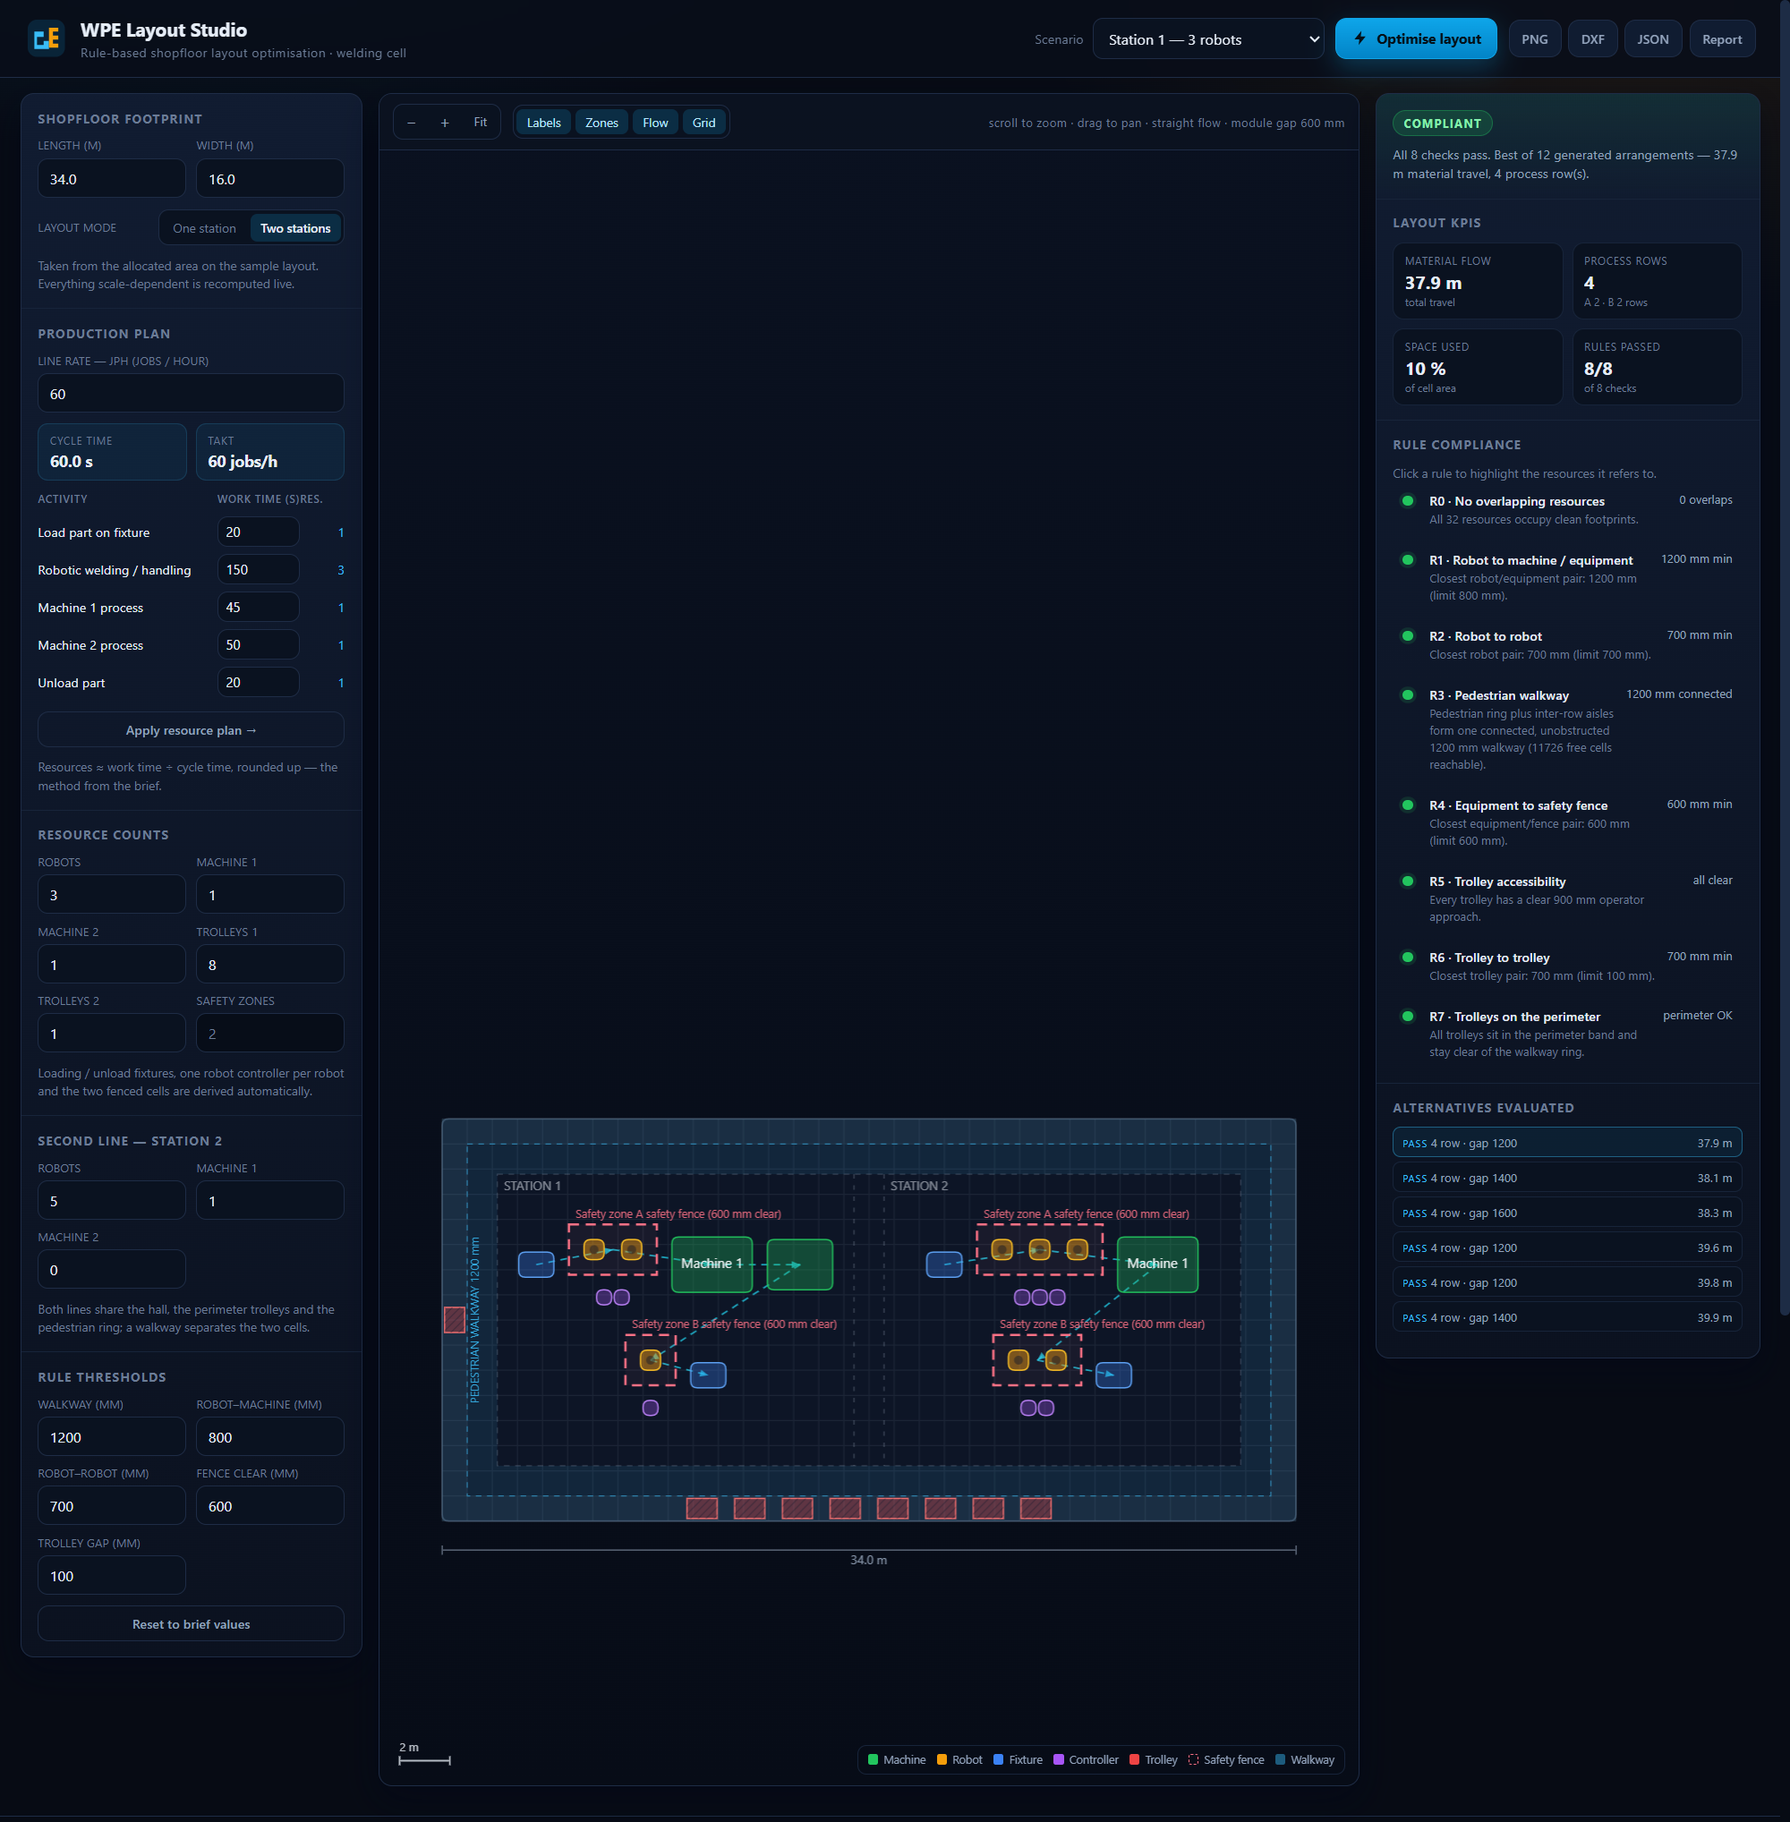
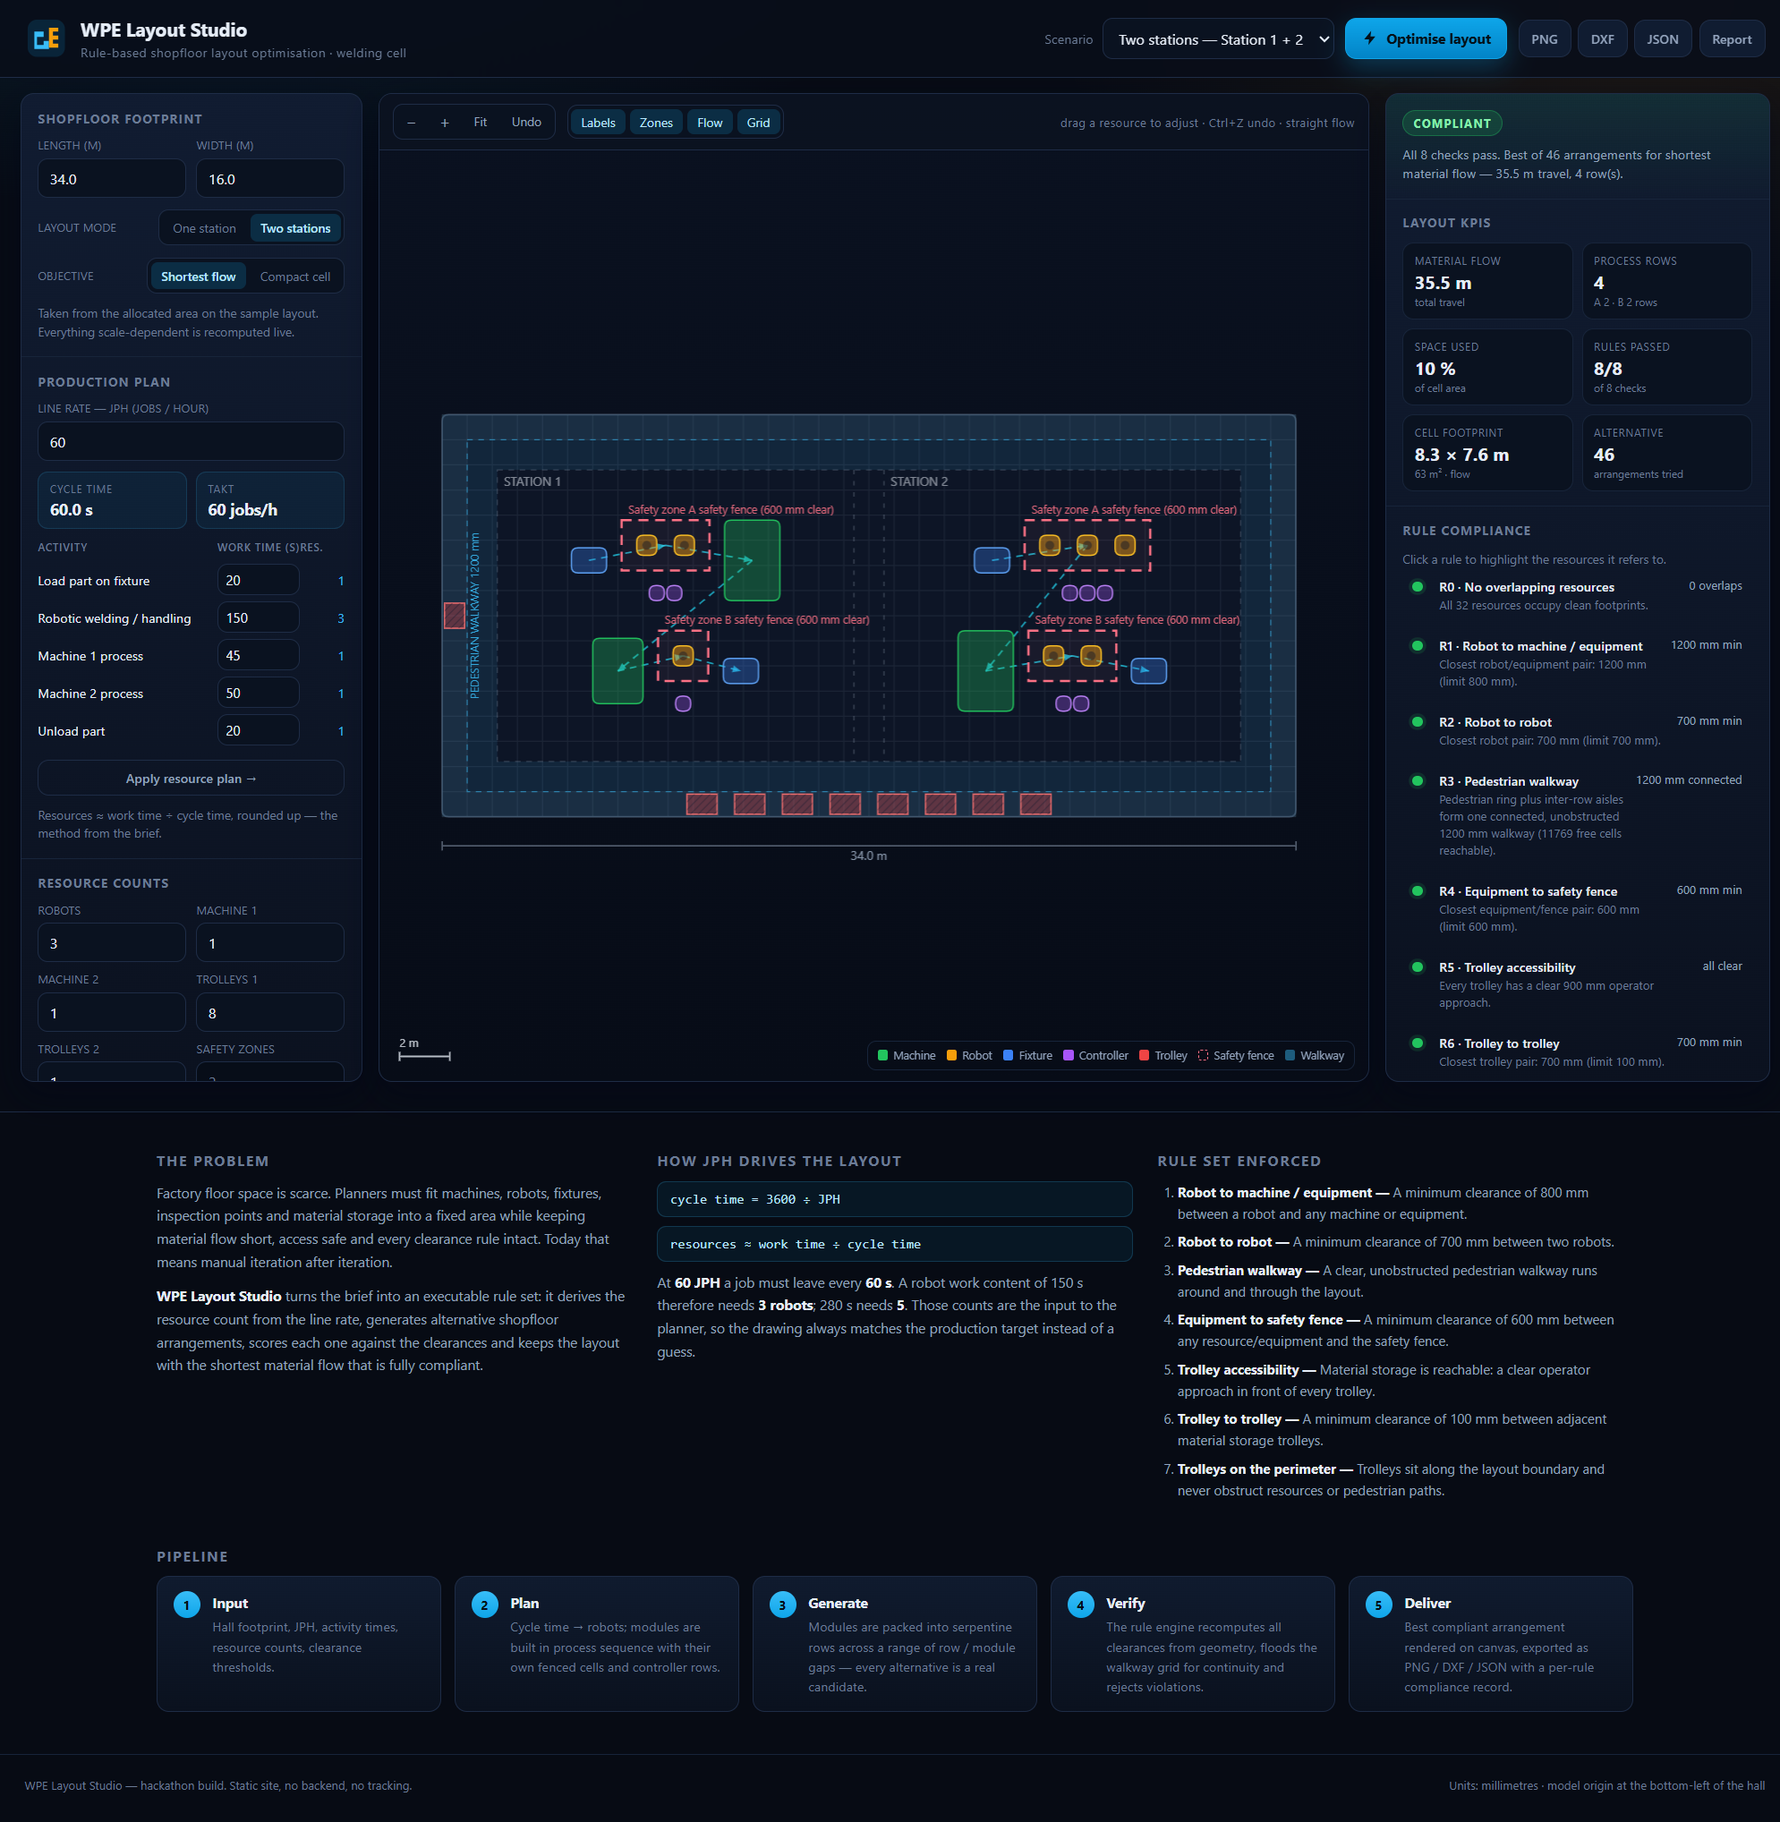
Broaden the layout search and add an explicit objective
- candidates now sweep row-width caps (100/78/60%), machine orientation,
  row gap, module gap and flow direction: 30-50 complete layouts per run
- selectable objective: shortest material flow or smallest footprint,
  which diverge on a tight floor (21.2 m / 94 m2 vs 22.7 m / 74 m2)
- KPI strip gains cell footprint and candidate count; verdict states the goal
- fixed the objective segmented control losing its highlight after a change
- tests: search breadth, objective trade-off, compact pick stays compliant
- docs screenshots refreshed

diff --git a/assets/js/planner.js b/assets/js/planner.js
@@ -81,6 +81,21 @@
     };
   }
 
+  /** turn a machine module 90° so its long side can run across the flow */
+  function rotateUnit(u) {
+    if (u.kind !== 'machine') return u;
+    return {
+      id: u.id, label: u.label, kind: u.kind,
+      w: u.h, h: u.w,
+      flowPoint: { x: u.h / 2, y: u.w / 2 },
+      items: u.items.map((it) => ({
+        id: it.id, kind: it.kind, type: it.type, label: it.label,
+        rect: { x: 0, y: 0, w: it.rect.h, h: it.rect.w }
+      })),
+      fences: []
+    };
+  }
+
   function buildUnits(counts, rules, prefix) {
     const c = counts || {};
     const p = prefix || '';
@@ -108,12 +123,13 @@
   }
 
   /* ---------- row packing ---------- */
-  function pack(units, prod, unitGap, rowGap, snake) {
+  function pack(units, prod, unitGap, rowGap, snake, rowCap) {
+    const maxRowWidth = prod.w * (rowCap || 1);
     const rows = [];
     let cur = { units: [], width: 0, height: 0 };
     units.forEach((u) => {
       const add = cur.units.length ? unitGap + u.w : u.w;
-      if (cur.units.length && cur.width + add > prod.w + 0.5) {
+      if (cur.units.length && cur.width + add > maxRowWidth + 0.5) {
         rows.push(cur);
         cur = { units: [], width: 0, height: 0 };
       }
@@ -345,16 +361,23 @@
 
     const unitGapBase = Math.max(rules.machineGap, rules.fenceClearance);
     const candidates = [];
-    const rowExtras = [0, 200, 400];
+    const rowExtras = [0, 200];
     const unitExtras = [0, 200];
     const snakes = [true, false];
+    const rowCaps = [1, 0.78, 0.6];
+    const rotations = [false, true];
 
+    rowCaps.forEach((rowCap) => {
+    rotations.forEach((rotated) => {
     rowExtras.forEach((rx) => {
       unitExtras.forEach((ux) => {
         snakes.forEach((snake) => {
           const rowGap = aisle + rx;
           const unitGap = unitGapBase + ux;
-          const packs = groups.map((grp) => pack(grp.units, grp.rect, unitGap, rowGap, snake));
+          const packs = groups.map((grp) => {
+            const units = rotated ? grp.units.map(rotateUnit) : grp.units;
+            return pack(units, grp.rect, unitGap, rowGap, snake, rowCap);
+          });
           const packed = {
             items: packs.reduce((a, p) => a.concat(p.items), []),
             fences: packs.reduce((a, p) => a.concat(p.fences), []),
@@ -387,14 +410,17 @@
               rowsByStation: packed.rowsByStation,
               rowGap: rowGap,
               unitGap: unitGap,
-              snake: snake,
-              dual: dual,
-              fits: packed.fits,
-              neededW: packed.neededW,
-              neededH: packed.totalH,
-              prodW: prod.w,
-              prodH: prod.h
-            }
+               snake: snake,
+               dual: dual,
+               rowCap: rowCap,
+               rotated: rotated,
+               fits: packed.fits,
+               neededW: packed.neededW,
+               neededH: packed.totalH,
+               footprintArea: packed.neededW * packed.totalH,
+               prodW: prod.w,
+               prodH: prod.h
+             }
           };
           const check = WPE.Checker.evaluate(layout, rules, hall);
           const usedArea = layout.items
@@ -403,31 +429,43 @@
           layout.metrics.usedArea = usedArea;
           layout.metrics.utilisation = usedArea / (prod.w * prod.h);
           layout.metrics.footprint = (packed.neededW * packed.totalH) / (prod.w * prod.h);
-          candidates.push({
-            label: 'row gap ' + rowGap + ' mm · module gap ' + unitGap + ' mm · ' +
-              (snake ? 'serpentine' : 'straight') + ' flow',
-            layout: layout, check: check,
-            fails: check.failCount, flow: packed.flow,
-            fits: packed.fits
-          });
-        });
-      });
+           candidates.push({
+             label: (Math.round(rowCap * 100) + '% row width · ' + (rotated ? 'machines turned' : 'machines inline') +
+               ' · gap ' + rowGap + '/' + unitGap + ' mm · ' + (snake ? 'serpentine' : 'straight')),
+             layout: layout, check: check,
+             fails: check.failCount, flow: packed.flow,
+             fits: packed.fits
+           });
+         });
+       });
+    });
+    });
     });
 
-    // dedupe identical metrics (small halls can collapse variants)
+    // dedupe identical arrangements (small halls can collapse variants)
     const seen = new Set();
     const unique = [];
     candidates.forEach((c) => {
-      const key = [c.layout.metrics.rows, Math.round(c.flow), c.layout.metrics.rowGap, c.fits].join('|');
+      const key = [
+        c.layout.metrics.rows, Math.round(c.flow), c.layout.metrics.rowGap,
+        Math.round(c.layout.metrics.neededW), Math.round(c.layout.metrics.neededH), c.fits
+      ].join('|');
       if (!seen.has(key)) { seen.add(key); unique.push(c); }
     });
 
+    const objective = state.objective === 'compact' ? 'compact' : 'flow';
     const feasible = unique.filter((c) => c.fits && c.check.compliant);
     const pool = feasible.length ? feasible : unique.filter((c) => c.fits);
     pool.sort((a, b) => {
       if (a.fails !== b.fails) return a.fails - b.fails;
+      const fa = a.layout.metrics.footprintArea;
+      const fb = b.layout.metrics.footprintArea;
+      if (objective === 'compact') {
+        if (Math.abs(fa - fb) > 1e6) return fa - fb;      // > 1 m² apart: footprint wins
+        return a.flow - b.flow;
+      }
       if (Math.abs(a.flow - b.flow) > 1) return a.flow - b.flow;
-      return b.layout.metrics.utilisation - a.layout.metrics.utilisation;
+      return fa - fb;
     });
     const best = pool[0] || unique[0];
 
@@ -467,9 +505,11 @@
       status: best.check.compliant && best.fits ? 'ok' : (best.fits ? 'violations' : 'infeasible'),
       layout: best.layout,
       check: best.check,
+      objective: objective,
       alternatives: unique.map((c) => ({
         label: c.label, fails: c.fails, flow: c.flow, fits: c.fits,
         rows: c.layout.metrics.rows, rowGap: c.layout.metrics.rowGap,
+        footprintArea: c.layout.metrics.footprintArea,
         compliant: c.check.compliant
       })).sort((a, b) => (a.fails - b.fails) || (a.flow - b.flow)),
       best: { label: best.label, flow: best.flow, fails: best.fails },

diff --git a/assets/js/app.js b/assets/js/app.js
@@ -57,6 +57,7 @@
       machine1: Math.max(0, Math.round(num($('bMachine1'), 1))),
       machine2: Math.max(0, Math.round(num($('bMachine2'), 0)))
     };
+    state.objective = state.objective === 'compact' ? 'compact' : 'flow';
     return state;
   }
 
@@ -79,6 +80,9 @@
     $('bMachine1').value = (state.countsB || {}).machine1 || 0;
     $('bMachine2').value = (state.countsB || {}).machine2 || 0;
     setMode(state.mode === 'dual' ? 'dual' : 'single', true);
+    document.querySelectorAll('#objSeg .segbtn').forEach((btn) => {
+      btn.classList.toggle('on', btn.dataset.obj === (state.objective || 'flow'));
+    });
     if (opts && opts.activities) buildActivityRows();
     if (!opts || opts.fit !== false) needsFit = true;
   }
@@ -159,6 +163,10 @@
   function compute() {
     readState();
     refreshPlanPreview();
+    // keep the segmented controls in step with the state they drive
+    document.querySelectorAll('#objSeg .segbtn').forEach((btn) => {
+      btn.classList.toggle('on', btn.dataset.obj === state.objective);
+    });
     edited = false;
     history = [];
     try {
@@ -192,8 +200,9 @@
       $('statusPill').textContent = 'compliant';
       $('verdictText').textContent =
         'All ' + total + ' checks pass. Best of ' + result.alternatives.length +
-        ' generated arrangements — ' + (result.layout.metrics.flow / 1000).toFixed(1) +
-        ' m material travel, ' + result.layout.metrics.rows + ' process row(s).' + suffix;
+        ' arrangements for ' + (result.objective === 'compact' ? 'the smallest footprint' : 'shortest material flow') +
+        ' — ' + (result.layout.metrics.flow / 1000).toFixed(1) +
+        ' m travel, ' + result.layout.metrics.rows + ' row(s).' + suffix;
     } else if (fits) {
       el.className = 'verdict warn';
       $('statusPill').textContent = 'violations';
@@ -217,6 +226,10 @@
       : (m.snake ? 'serpentine' : 'straight') + ' · gap ' + (m.rowGap / 1000).toFixed(1) + ' m';
     $('kpiUtil').textContent = Math.round(m.utilisation * 100) + ' %';
     $('kpiRules').textContent = result.check.passCount + '/' + result.check.rules.length;
+    $('kpiFoot').textContent = (m.neededW / 1000).toFixed(1) + ' × ' + (m.neededH / 1000).toFixed(1) + ' m';
+    $('kpiFootEm').textContent = Math.round(m.footprintArea / 1e6) + ' m² · ' +
+      (result.objective === 'compact' ? 'compact' : 'flow');
+    $('kpiAlts').textContent = result.alternatives.length;
     $('stageNote').textContent = edited
       ? 'editing manually · drag resources · Ctrl+Z undo'
       : 'drag a resource to adjust · Ctrl+Z undo · ' + (m.snake ? 'serpentine' : 'straight') + ' flow';
@@ -352,6 +365,14 @@
 
   document.querySelectorAll('#modeSeg .segbtn').forEach((btn) => {
     btn.addEventListener('click', () => setMode(btn.dataset.mode));
+  });
+
+  document.querySelectorAll('#objSeg .segbtn').forEach((btn) => {
+    btn.addEventListener('click', () => {
+      state.objective = btn.dataset.obj === 'compact' ? 'compact' : 'flow';
+      needsFit = true;
+      compute();
+    });
   });
 
   ['hallW', 'hallH', 'jphInput', 'cRobots', 'cMachine1', 'cMachine2', 'cTrolley1', 'cTrolley2',

diff --git a/tests/run.js b/tests/run.js
@@ -122,6 +122,24 @@ assert(Math.abs(after - before) <= 2000, 'flow change stays within the size of t
 const movedCheck = WPE.Checker.evaluate(editPlan.layout, editState.rules, editPlan.layout.hall);
 assert(movedCheck.rules.length === 8, 'rule engine still runs on an edited layout');
 
+/* 4c. search breadth + objective */
+console.log('\nSearch');
+const tightState = C.cloneState(C.DEFAULT_STATE);
+tightState.hall = { w: 18000, h: 13000 };
+tightState.counts = { robots: 5, machine1: 1, machine2: 1, trolley1: 6, trolley2: 1 };
+tightState.objective = 'flow';
+const flowPick = WPE.Planner.plan(tightState);
+tightState.objective = 'compact';
+const compactPick = WPE.Planner.plan(tightState);
+assert(flowPick.alternatives.length >= 20, 'search evaluates a real candidate set (' + flowPick.alternatives.length + ')');
+assert(flowPick.layout.metrics.flow <= compactPick.layout.metrics.flow + 1,
+  'flow objective is not worse on material travel');
+assert(compactPick.layout.metrics.footprintArea <= flowPick.layout.metrics.footprintArea + 1,
+  'compact objective is not worse on footprint');
+assert(compactPick.layout.metrics.flow > flowPick.layout.metrics.flow,
+  'the two objectives trade flow against area on a tight floor');
+assert(compactPick.check.compliant, 'the compact pick is still fully compliant');
+
 /* 5. scaling sweep */
 console.log('\nSweep');
 let sweepBad = 0, sweepCount = 0;

diff --git a/index.html b/index.html
@@ -68,6 +68,13 @@
           <button type="button" class="segbtn" data-mode="dual">Two stations</button>
         </div>
       </div>
+      <div class="mode-row">
+        <span>Objective</span>
+        <div class="seg" id="objSeg">
+          <button type="button" class="segbtn on" data-obj="flow">Shortest flow</button>
+          <button type="button" class="segbtn" data-obj="compact">Compact cell</button>
+        </div>
+      </div>
       <p class="hint">Taken from the allocated area on the sample layout. Everything scale-dependent is recomputed live.</p>
     </section>
 
@@ -171,6 +178,8 @@
         <div class="kpi"><span>Process rows</span><strong id="kpiRows">–</strong><em id="kpiRowsEm">serpentine</em></div>
         <div class="kpi"><span>Space used</span><strong id="kpiUtil">–</strong><em>of cell area</em></div>
         <div class="kpi"><span>Rules passed</span><strong id="kpiRules">–</strong><em>of 8 checks</em></div>
+        <div class="kpi"><span>Cell footprint</span><strong id="kpiFoot">–</strong><em id="kpiFootEm">bounding box</em></div>
+        <div class="kpi"><span>Alternative</span><strong id="kpiAlts">–</strong><em>arrangements tried</em></div>
       </div>
     </section>
 

diff --git a/README.md b/README.md
@@ -21,8 +21,10 @@ no build step, no backend and no external dependency.
 2. **Module generation.** Loading fixture → fenced robot cell → Machine 1 → Machine 2 → fenced robot cell →
    unload fixture. Each fenced cell carries its own controllers *outside* the fence, so the 600 mm
    equipment-to-fence rule is satisfied by construction, not by luck.
-3. **Layout search.** Modules are packed into serpentine rows over a sweep of row gaps, module gaps and flow
-   directions. Every candidate is a real, complete layout — not a sketch.
+3. **Layout search.** Modules are packed into rows over a sweep of row-width caps, row and module gaps, flow directions
+   and machine orientation — 30 to 50 complete candidates per run, not a sketch. The winner is picked by a stated
+   objective: **shortest material flow** or **smallest footprint**, which diverge as soon as floor area is scarce
+   (e.g. 21.2 m travel in 94 m² vs 22.7 m in 74 m² on an 18 × 13 m hall).
 4. **Rule verification.** The engine recomputes all clearances from the produced geometry and flood-fills a raster of
    the hall to prove the walkway is continuous. A layout only wins if it passes all eight checks.
 5. **Delivery.** Canvas visualisation with hover inspection, plus PNG, DXF (R12, mm), JSON, CSV and a printable HTML
@@ -71,7 +73,8 @@ previous footprint when you switch back.
 
 ## Screens
 
-- **Shopfloor footprint** — hall length × width, straight from the allocated area on the sample drawing.
+- **Shopfloor footprint** — hall length × width, straight from the allocated area on the sample drawing, plus the
+  layout mode (one / two stations) and the objective (shortest flow / compact cell).
 - **Production plan** — JPH, cycle time, per-activity work times and the derived resource count.
 - **Resource counts** — robots, machines, trolleys; fixtures, controllers and the two safety zones are derived.
 - **Stage** — canvas plan with zones, walkway, fences, material-flow arrows, zoom / pan / hover, drag-to-adjust with
